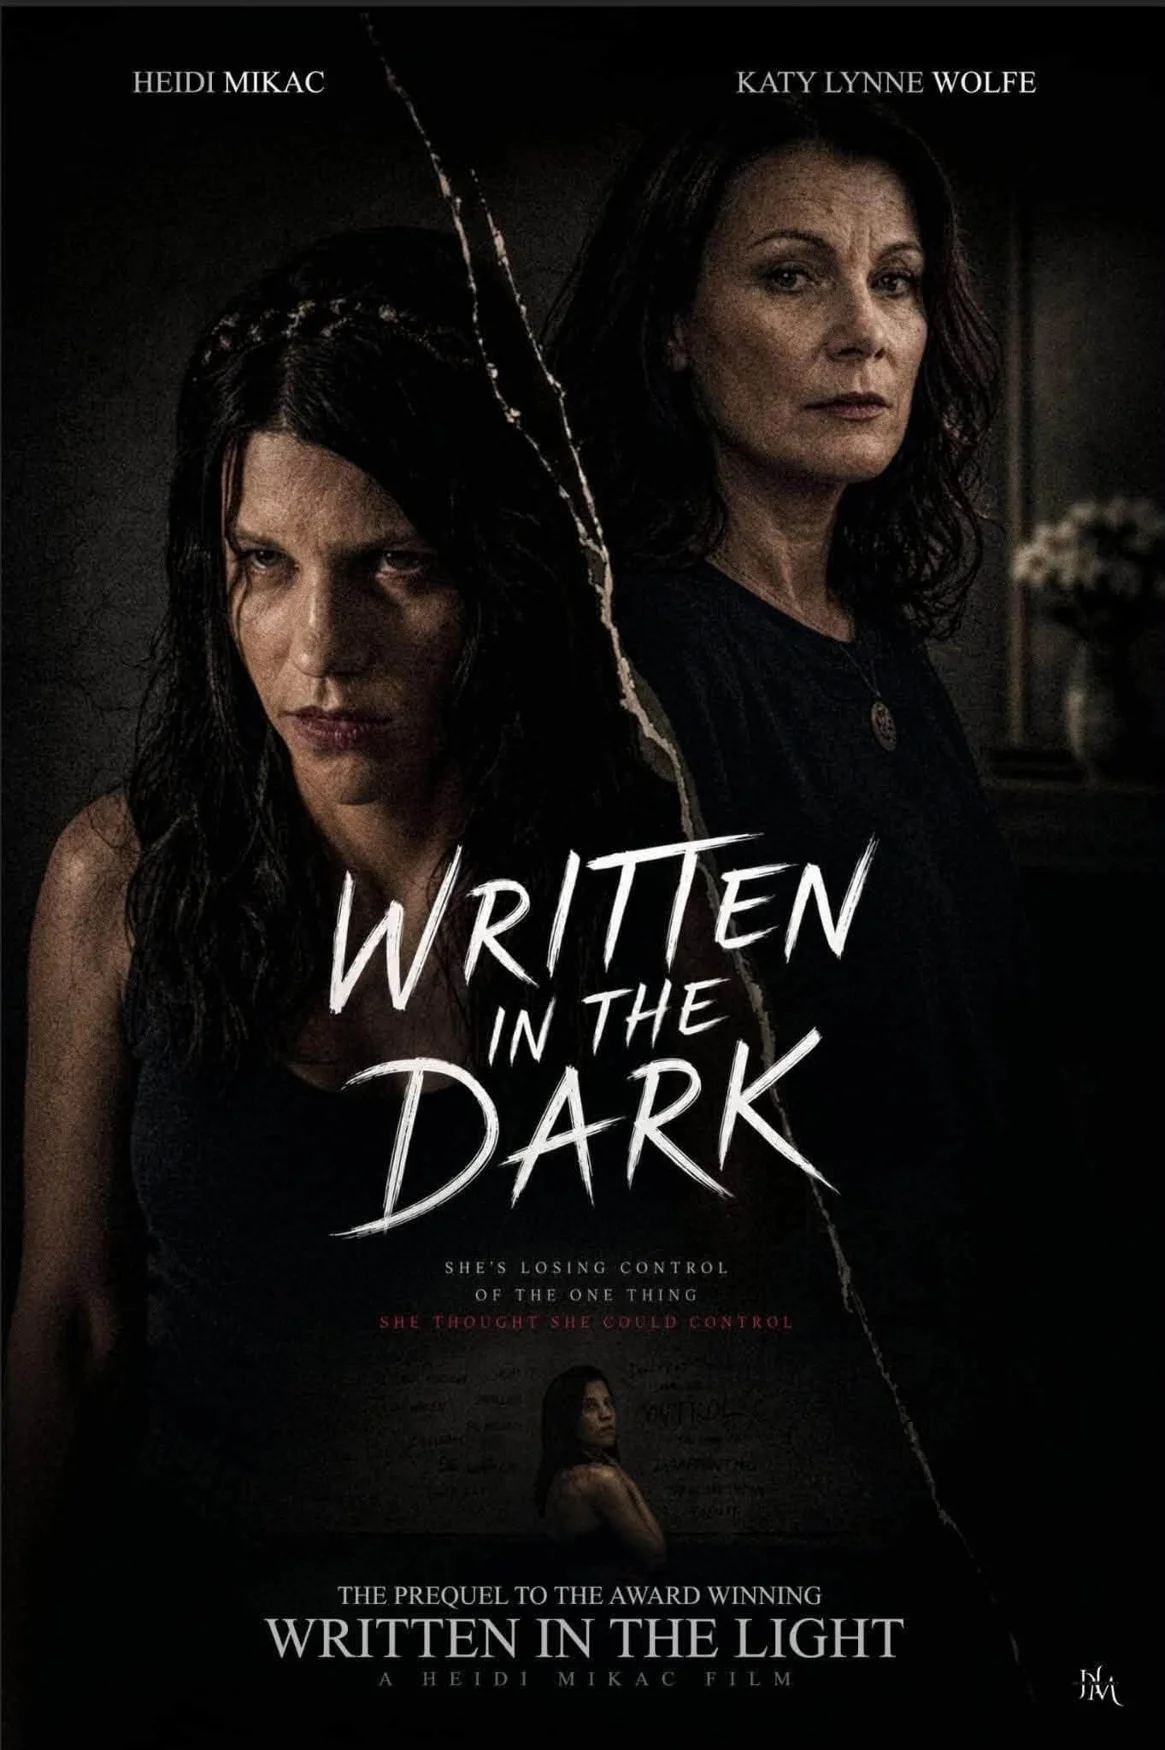
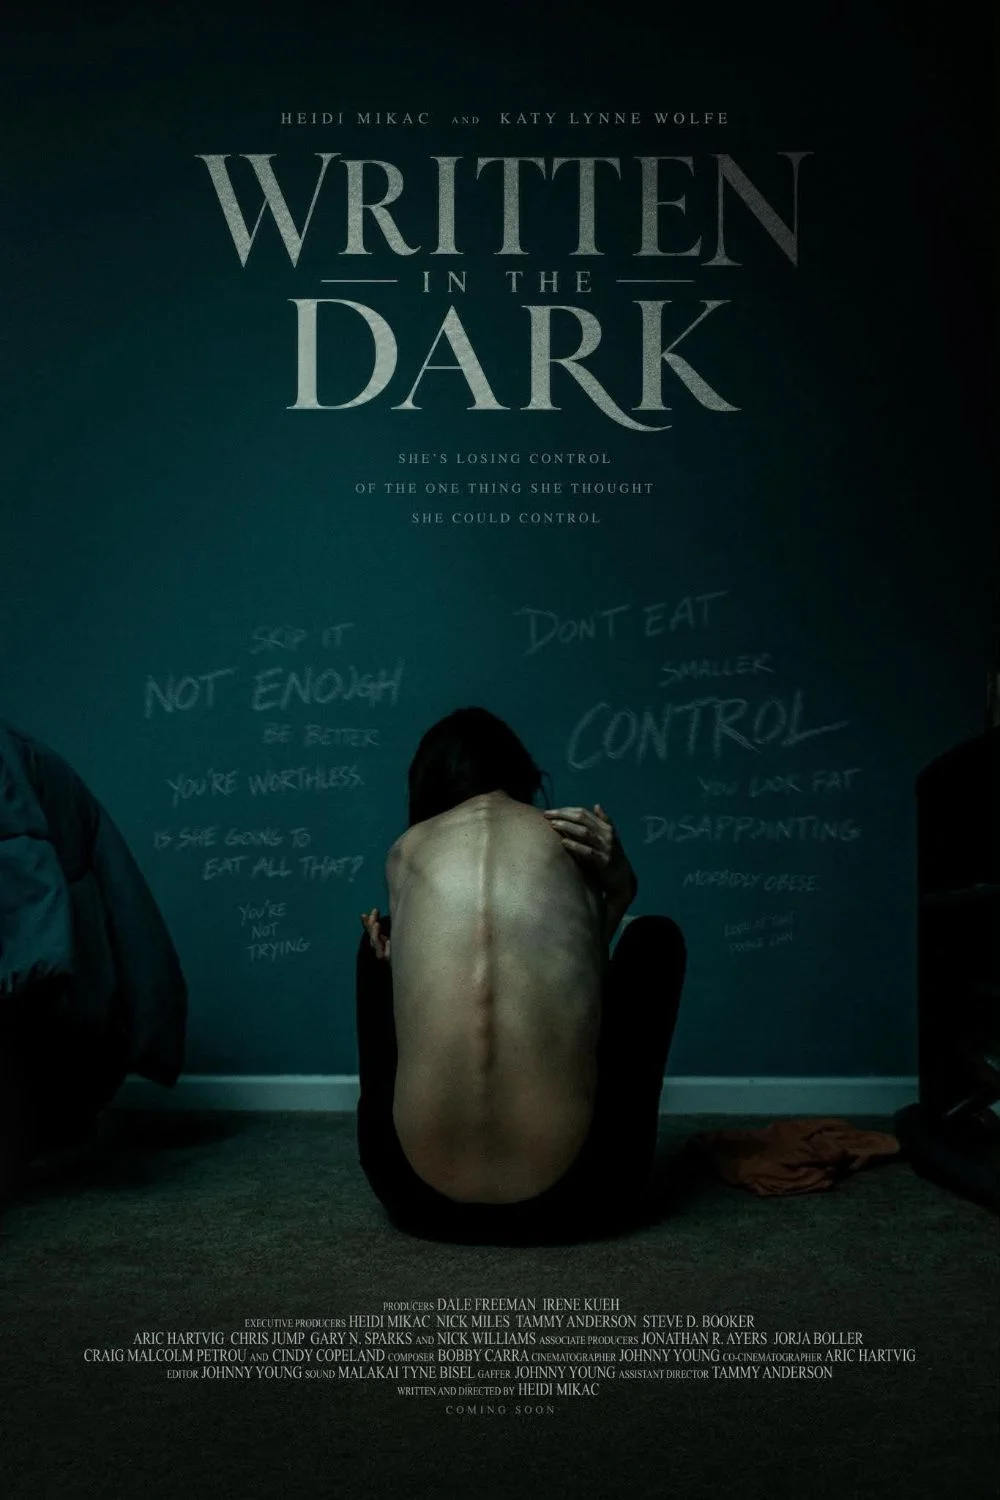
Update Written in the Dark poster
Replace assets/dark-poster.webp with the new official poster, used by the
current-production feature, the films grid and the hero background.
Re-centre the hero background crop on the new title placement.

Claude-Session: https://claude.ai/code/session_011NZ7cajy3uUyz8vjKxudJG

diff --git a/styles.css b/styles.css
@@ -57,7 +57,7 @@ button{font:inherit}
 .hero-montage img{width:100%;height:100%;object-fit:cover;opacity:.62}
 .hero-montage img:first-child{object-position:46% 31%}
 .hero-montage img:nth-child(2){object-position:49% 40%}
-.hero-montage img:nth-child(3){object-position:45% 28%}
+.hero-montage img:nth-child(3){object-position:85% 28%}
 .hero::before{
   content:'';position:absolute;inset:0;z-index:-2;
   background:
